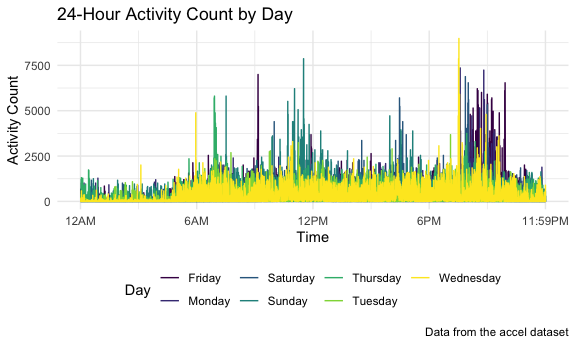
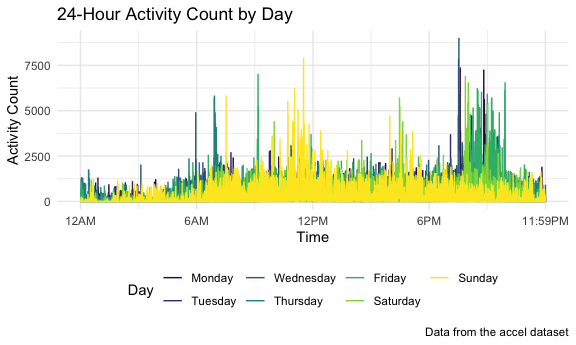
Problem 1 with live class. Fixed factor variable (day) in Problem 2

diff --git a/p8105_hw3_hlz2108.md b/p8105_hw3_hlz2108.md
@@ -9,14 +9,14 @@ Below is the code for setup:
 library(tidyverse)
 ```
 
-    ## ── Attaching packages ───────────────────────────────────────────── tidyverse 1.3.0 ──
+    ## ── Attaching packages ────────────────────────────────────────────────────────── tidyverse 1.3.0 ──
 
     ## ✓ ggplot2 3.3.2     ✓ purrr   0.3.4
     ## ✓ tibble  3.0.3     ✓ dplyr   1.0.2
     ## ✓ tidyr   1.1.2     ✓ stringr 1.4.0
     ## ✓ readr   1.3.1     ✓ forcats 0.5.0
 
-    ## ── Conflicts ──────────────────────────────────────────────── tidyverse_conflicts() ──
+    ## ── Conflicts ───────────────────────────────────────────────────────────── tidyverse_conflicts() ──
     ## x dplyr::filter() masks stats::filter()
     ## x dplyr::lag()    masks stats::lag()
 
@@ -40,34 +40,114 @@ scale_colour_discrete = scale_color_viridis_d
 scale_fill_discrete = scale_fill_viridis_d
 ```
 
+## Problem 0
+
+This “problem” focuses on structure of your submission, especially the
+use git and GitHub for reproducibility, R Projects to organize your
+work, R Markdown to write reproducible reports, relative paths to load
+data from local files, and reasonable naming structures for your files.
+
 ## Problem 1
 
 ``` r
 data("instacart")
-
-instacart
 ```
 
-    ## # A tibble: 1,384,617 x 15
-    ##    order_id product_id add_to_cart_ord… reordered user_id eval_set order_number
-    ##       <int>      <int>            <int>     <int>   <int> <chr>           <int>
-    ##  1        1      49302                1         1  112108 train               4
-    ##  2        1      11109                2         1  112108 train               4
-    ##  3        1      10246                3         0  112108 train               4
-    ##  4        1      49683                4         0  112108 train               4
-    ##  5        1      43633                5         1  112108 train               4
-    ##  6        1      13176                6         0  112108 train               4
-    ##  7        1      47209                7         0  112108 train               4
-    ##  8        1      22035                8         1  112108 train               4
-    ##  9       36      39612                1         0   79431 train              23
-    ## 10       36      19660                2         1   79431 train              23
-    ## # … with 1,384,607 more rows, and 8 more variables: order_dow <int>,
-    ## #   order_hour_of_day <int>, days_since_prior_order <int>, product_name <chr>,
-    ## #   aisle_id <int>, department_id <int>, aisle <chr>, department <chr>
-
-This dataset contains 1384617 rows and columns.
+This dataset contains 1384617 rows and 15 columns.
 
 Observations are the level of items in order by user.
+
+How many aisles, and which are most items ordered from?
+
+``` r
+instacart %>% 
+  count(aisle) %>% 
+  arrange(desc(n))
+```
+
+    ## # A tibble: 134 x 2
+    ##    aisle                              n
+    ##    <chr>                          <int>
+    ##  1 fresh vegetables              150609
+    ##  2 fresh fruits                  150473
+    ##  3 packaged vegetables fruits     78493
+    ##  4 yogurt                         55240
+    ##  5 packaged cheese                41699
+    ##  6 water seltzer sparkling water  36617
+    ##  7 milk                           32644
+    ##  8 chips pretzels                 31269
+    ##  9 soy lactosefree                26240
+    ## 10 bread                          23635
+    ## # … with 124 more rows
+
+Let’s make a plot\! This plot shows the number of items ordered in each
+aisle, limited to aisles with more than 10000 items ordered.
+
+``` r
+instacart %>% 
+  count(aisle) %>% 
+  filter(n > 10000) %>% 
+  mutate(
+    aisle = factor(aisle),
+    aisle = fct_reorder(aisle, n)
+  ) %>% 
+  ggplot(aes(x = aisle, y = n)) +
+  geom_point() + 
+  theme(axis.text.x = element_text(angle = 90, vjust = 0.5, hjust = 1))
+```
+
+<img src="p8105_hw3_hlz2108_files/figure-gfm/instacart_plot-1.png" width="90%" />
+
+Let’s make a table\! This table shows the three most popular items in
+each of the aisles “baking ingredients”, “dog food care”, and “packaged
+vegetables fruits” and the number of times each item is ordered.
+
+``` r
+instacart %>% 
+  filter(aisle %in% c("baking ingredients", "dog food care", "packaged vegetables fruits")) %>% 
+  group_by(aisle) %>% 
+  count(product_name) %>% 
+  mutate(rank = min_rank(desc(n))) %>% 
+  filter(rank < 4) %>% 
+  arrange(aisle, rank) %>% 
+  knitr::kable()
+```
+
+| aisle                      | product\_name                                 |    n | rank |
+| :------------------------- | :-------------------------------------------- | ---: | ---: |
+| baking ingredients         | Light Brown Sugar                             |  499 |    1 |
+| baking ingredients         | Pure Baking Soda                              |  387 |    2 |
+| baking ingredients         | Cane Sugar                                    |  336 |    3 |
+| dog food care              | Snack Sticks Chicken & Rice Recipe Dog Treats |   30 |    1 |
+| dog food care              | Organix Chicken & Brown Rice Recipe           |   28 |    2 |
+| dog food care              | Small Dog Biscuits                            |   26 |    3 |
+| packaged vegetables fruits | Organic Baby Spinach                          | 9784 |    1 |
+| packaged vegetables fruits | Organic Raspberries                           | 5546 |    2 |
+| packaged vegetables fruits | Organic Blueberries                           | 4966 |    3 |
+
+Apples vs. Ice-Cream Making a second table. This table shows the mean
+hour of the day at which Pink Lady Apples and Coffee Ice Cream are
+ordered on each day of the week.
+
+``` r
+instacart %>% 
+  filter(product_name %in% c("Pink Lady Apples", "Coffee Ice Cream")) %>% 
+  group_by(product_name, order_dow) %>% 
+  summarise(mean_hour = mean(order_hour_of_day)) %>% 
+  pivot_wider(
+    names_from = order_dow,
+    values_from = mean_hour
+  )
+```
+
+    ## `summarise()` regrouping output by 'product_name' (override with `.groups` argument)
+
+    ## # A tibble: 2 x 8
+    ## # Groups:   product_name [2]
+    ##   product_name       `0`   `1`   `2`   `3`   `4`   `5`   `6`
+    ##   <chr>            <dbl> <dbl> <dbl> <dbl> <dbl> <dbl> <dbl>
+    ## 1 Coffee Ice Cream  13.8  14.3  15.4  15.3  15.2  12.3  13.8
+    ## 2 Pink Lady Apples  13.4  11.4  11.7  14.2  11.6  12.8  11.9
 
 ## Problem 2
 
@@ -95,7 +175,11 @@ accel_df =
     values_to = "activity_count") %>% 
   separate(activity, into = c("activity", "activity_minute")) %>%
   select(-activity) %>%
-  mutate(activity_minute = as.integer(activity_minute)) %>% view
+  mutate(
+    activity_minute = as.numeric(activity_minute),
+    day = factor(day),
+    day = fct_relevel(day, c("Monday", "Tuesday", "Wednesday", "Thursday", "Friday", "Saturday", "Sunday"))
+    ) %>% view
 ```
 
 The accel data set contains 50400 rows and 6 columns. The dataset
@@ -115,23 +199,63 @@ of several variables of interest:
   - *weekend* is a character variable that indicates whether the
     information was collected on a weekend vs. a weekday.
 
-  - *activity\_minute* is a integer variable that indicates the minute
+  - *activity\_minute* is a numeric variable that indicates the minute
     when the activity count was collected, corresponding to each minute
     of a 24-hour day starting at midnight.
 
 <!-- end list -->
 
 ``` r
-aggregate_accel_df = accel_df %>% 
+accel_df %>% 
   group_by(day_id, day) %>%
   summarize(total_activity = sum(activity_count)) %>% 
-  knitr::kable() %>% view
+  knitr::kable()
 ```
 
     ## `summarise()` regrouping output by 'day_id' (override with `.groups` argument)
 
+| day\_id | day       | total\_activity |
+| ------: | :-------- | --------------: |
+|       1 | Friday    |       480542.62 |
+|       2 | Monday    |        78828.07 |
+|       3 | Saturday  |       376254.00 |
+|       4 | Sunday    |       631105.00 |
+|       5 | Thursday  |       355923.64 |
+|       6 | Tuesday   |       307094.24 |
+|       7 | Wednesday |       340115.01 |
+|       8 | Friday    |       568839.00 |
+|       9 | Monday    |       295431.00 |
+|      10 | Saturday  |       607175.00 |
+|      11 | Sunday    |       422018.00 |
+|      12 | Thursday  |       474048.00 |
+|      13 | Tuesday   |       423245.00 |
+|      14 | Wednesday |       440962.00 |
+|      15 | Friday    |       467420.00 |
+|      16 | Monday    |       685910.00 |
+|      17 | Saturday  |       382928.00 |
+|      18 | Sunday    |       467052.00 |
+|      19 | Thursday  |       371230.00 |
+|      20 | Tuesday   |       381507.00 |
+|      21 | Wednesday |       468869.00 |
+|      22 | Friday    |       154049.00 |
+|      23 | Monday    |       409450.00 |
+|      24 | Saturday  |         1440.00 |
+|      25 | Sunday    |       260617.00 |
+|      26 | Thursday  |       340291.00 |
+|      27 | Tuesday   |       319568.00 |
+|      28 | Wednesday |       434460.00 |
+|      29 | Friday    |       620860.00 |
+|      30 | Monday    |       389080.00 |
+|      31 | Saturday  |         1440.00 |
+|      32 | Sunday    |       138421.00 |
+|      33 | Thursday  |       549658.00 |
+|      34 | Tuesday   |       367824.00 |
+|      35 | Wednesday |       445366.00 |
+
 Activity counts were at their lowest on the two Saturdays prior to end
-of data collection (weeks 4 and 5).
+of data collection (weeks 4 and 5). The individual appears to be most
+active on the days leading up to and after the weekend, and during the
+weekend (Friday-Monday).
 
 ``` r
 accel_df %>% 
@@ -156,9 +280,22 @@ accel_df %>%
 
 <img src="p8105_hw3_hlz2108_files/figure-gfm/accel_plot-1.png" width="90%" />
 
+Activity is lowest during sleeping hours, the individual appears to be
+more active on the weekends, in the evening hours around 8-10pm.
+
 ## Problem 3
 
 ``` r
-library(p8105.datasets)
 data("ny_noaa")
+
+separate
 ```
+
+    ## function (data, col, into, sep = "[^[:alnum:]]+", remove = TRUE, 
+    ##     convert = FALSE, extra = "warn", fill = "warn", ...) 
+    ## {
+    ##     ellipsis::check_dots_used()
+    ##     UseMethod("separate")
+    ## }
+    ## <bytecode: 0x7fc1ec2b9738>
+    ## <environment: namespace:tidyr>
